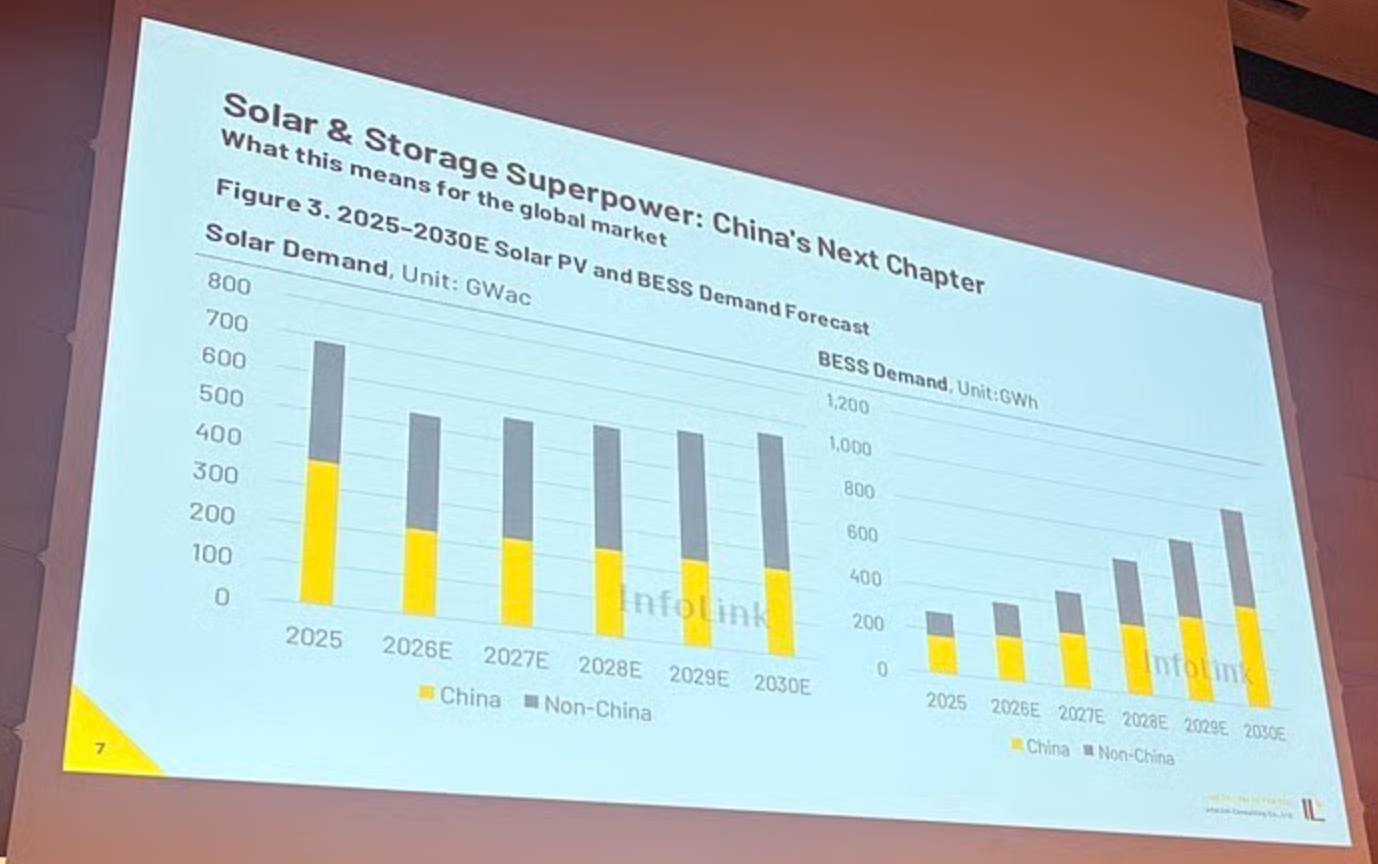
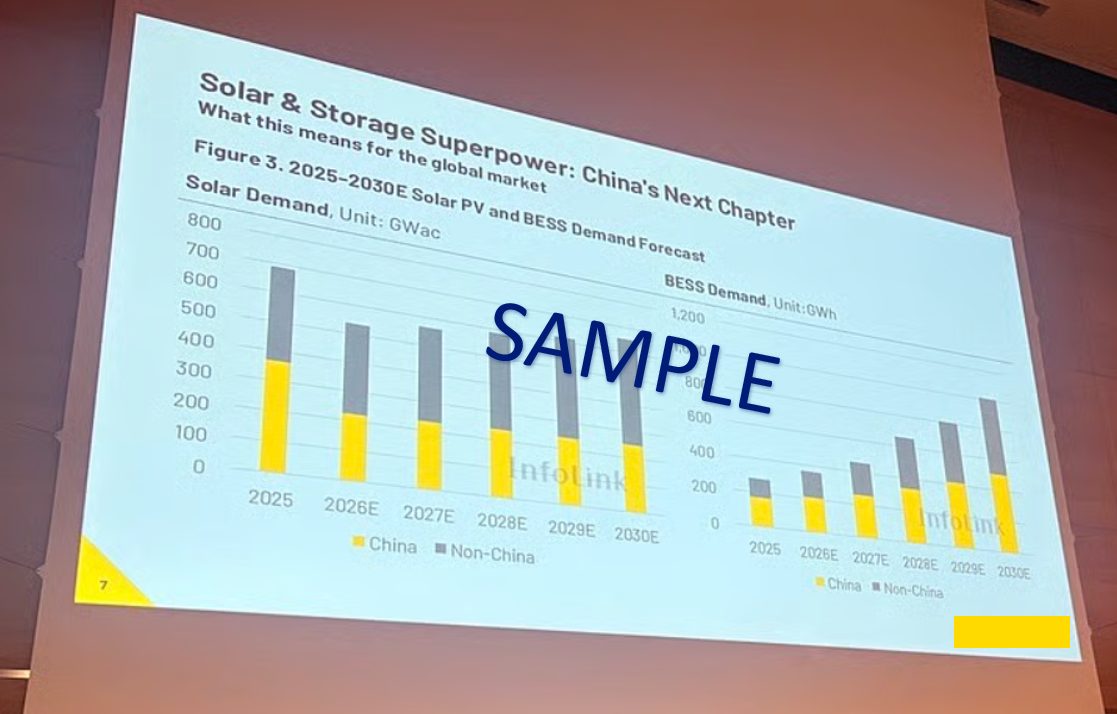
Update sample image

Changed region(s): [[0.0, 0.0, 1.0, 1.0], [0.8827, 0.0, 0.9436, 0.2773]]

diff --git a/slide-rectifier/app.js b/slide-rectifier/app.js
@@ -1,4 +1,4 @@
-const SAMPLE_IMAGE = "samples/presentation-sample.png";
+const SAMPLE_IMAGE = "samples/presentation-sample.png?v=20260623-sample2";
 const MAX_SOURCE_SIDE = 2200;
 const MAX_AUTO_OUTPUT_SIDE = 1800;
 
@@ -135,13 +135,13 @@ function applyDefaultFrame() {
 
 function applySampleFrame() {
   if (!state.imageCanvas || state.imageName !== "presentation-sample.png") return false;
-  const scaleX = state.imageCanvas.width / 1378;
-  const scaleY = state.imageCanvas.height / 864;
+  const scaleX = state.imageCanvas.width / 1117;
+  const scaleY = state.imageCanvas.height / 714;
   state.points = [
-    { x: 143 * scaleX, y: 18 * scaleY },
-    { x: 1265 * scaleX, y: 268 * scaleY },
-    { x: 1356 * scaleX, y: 837 * scaleY },
-    { x: 63 * scaleX, y: 773 * scaleY }
+    { x: 136 * scaleX, y: 15 * scaleY },
+    { x: 1017 * scaleX, y: 239 * scaleY },
+    { x: 1084 * scaleX, y: 663 * scaleY },
+    { x: 75 * scaleX, y: 604 * scaleY }
   ];
   state.activeIndex = -1;
   setStatus("Sample selection is ready.");

diff --git a/slide-rectifier/index.html b/slide-rectifier/index.html
@@ -85,6 +85,6 @@
       </aside>
     </main>
 
-    <script src="app.js"></script>
+    <script src="app.js?v=20260623-sample2"></script>
   </body>
 </html>